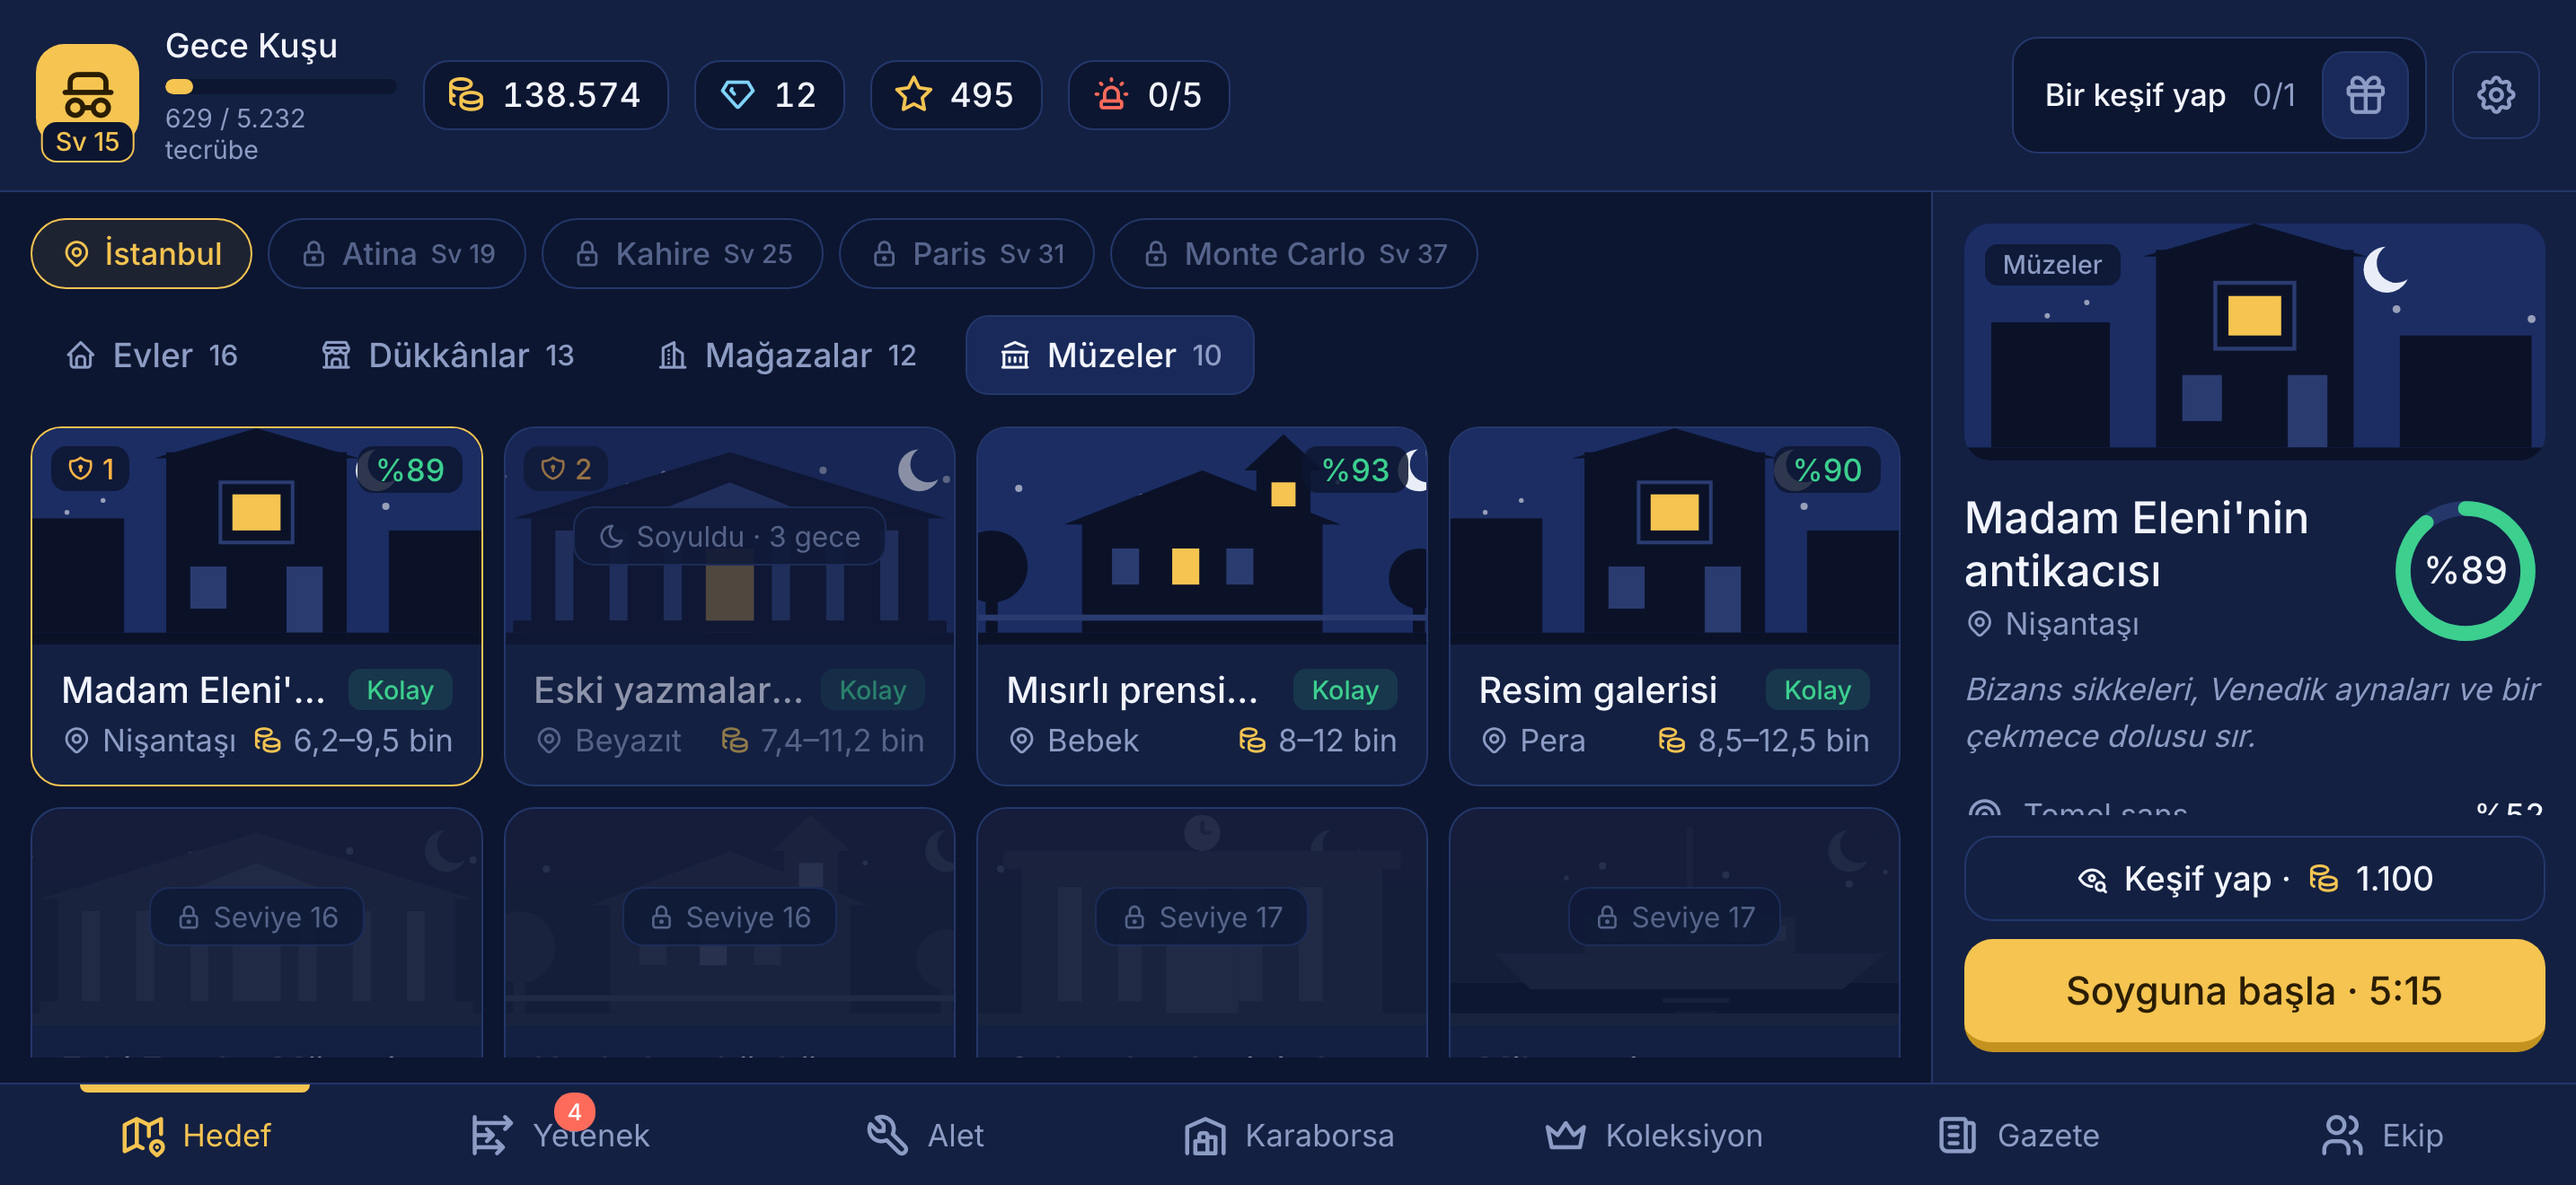
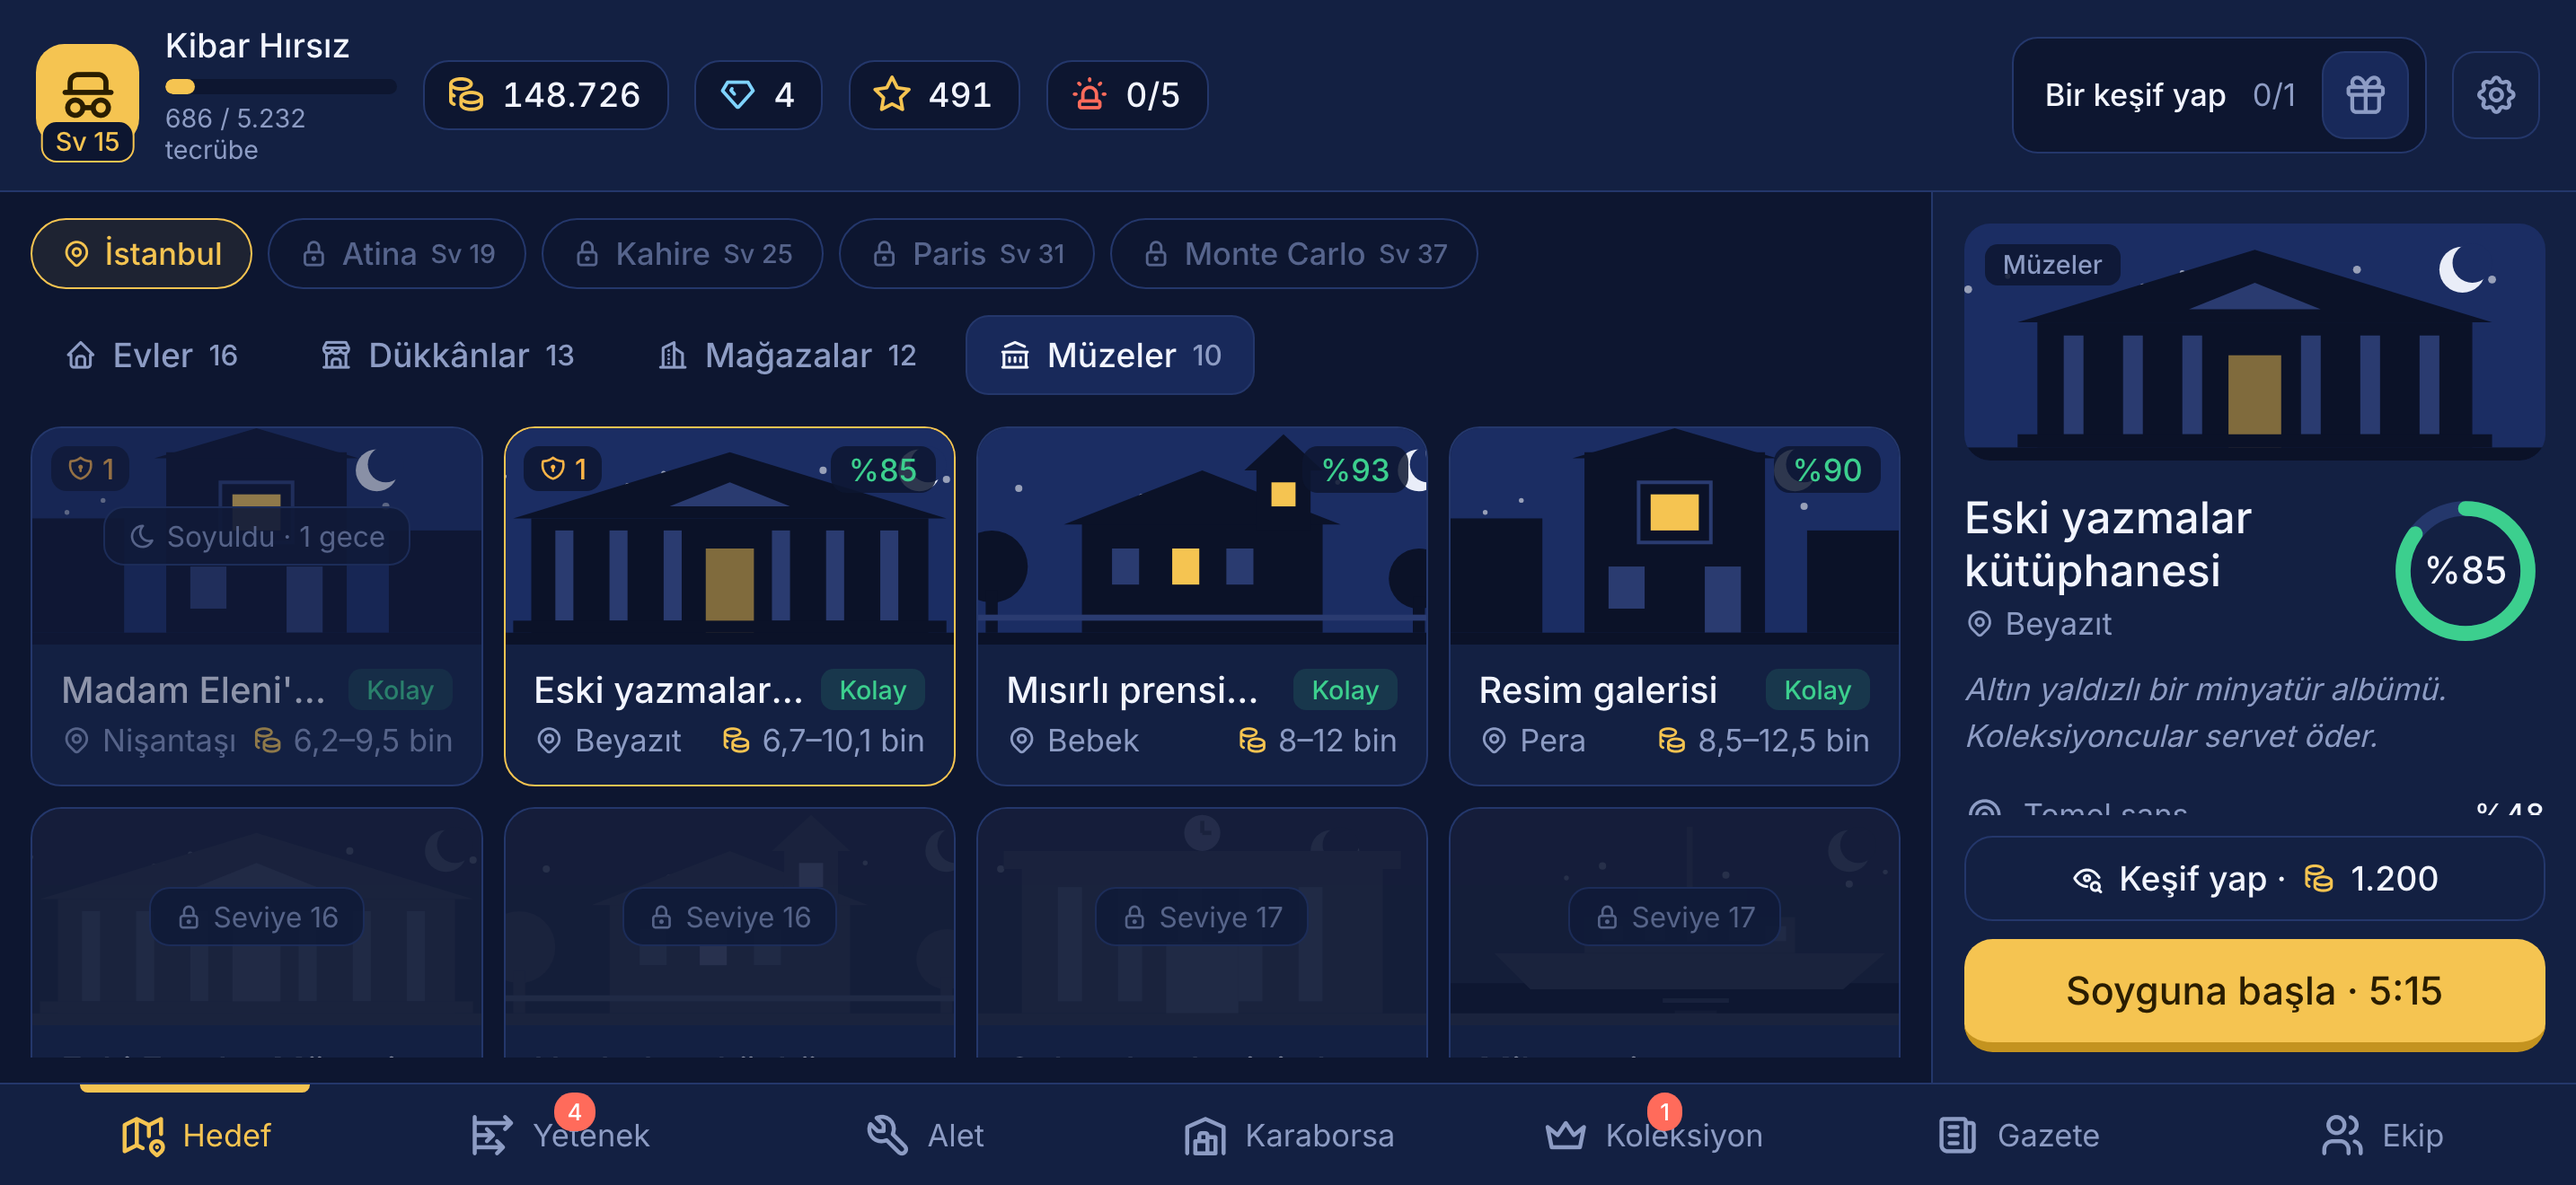
Oyunun adını Kibar Hırsız olarak değiştir

diff --git a/eras/1920/content.js b/eras/1920/content.js
@@ -4,8 +4,8 @@
 
 window.ERA = {
   id: '1920',
-  title: 'Gece Kuşu',
-  hero: 'Gece Kuşu',
+  title: 'Kibar Hırsız',
+  hero: 'Kibar Hırsız',
   heroIcon: 'spy',
   currency: 'lira',
   gemName: 'elmas',
@@ -328,7 +328,7 @@ window.ERA = {
     { id: 'hazine', tier: 'muze', lv: 18, legend: true, name: 'Saray Hazinesi', place: 'Sarayburnu', at: "Sarayburnu'nda", scene: 'saray',
       base: 35, factors: [{ tag: 'bekci', icon: 'shield', text: 'Hazine muhafızları', v: -20 }, { tag: 'alarm', icon: 'bell', text: 'Kilitli sandık alarmı', v: -15 }, { tag: 'polis', icon: 'badge', text: 'Sur devriyesi', v: -10 }, { icon: 'route', text: 'Unutulmuş sarnıç geçidi', v: 15 }],
       loot: [40000, 60000], xp: 5000, fame: 50, cd: 7, desc: 'Efsanevi Hilal Elması. Şimdiye kadar kimse denemeye cesaret edemedi.',
-      legendNews: ['Asrın soygunu!', 'Saray Hazinesi soyuldu, efsanevi Hilal Elması kayboldu. Yerinde bir kartvizit: "Gece Kuşu, saygılarımla."'] },
+      legendNews: ['Asrın soygunu!', 'Saray Hazinesi soyuldu, efsanevi Hilal Elması kayboldu. Yerinde bir kartvizit: "Kibar Hırsız, saygılarımla."'] },
 
     // ── Yurt dışı: her şehir bir kere bilet ve vize alınınca açılır ──
     { id: 'atina_antika', city: 'atina', tier: 'muze', lv: 19, name: 'Plaka antikacısı', place: 'Atina', at: "Atina'da", scene: 'antika',
@@ -382,7 +382,7 @@ window.ERA = {
     { id: 'mc_kumarhane', city: 'montecarlo', tier: 'muze', lv: 40, legend: true, name: 'Monte Carlo kumarhanesi', place: 'Monte Carlo', at: "Monte Carlo'da", scene: 'kumarhane',
       time: [120, 240, 60], base: 32, factors: [{ tag: 'bekci', icon: 'shield', text: 'Kumarhane muhafızları', v: -20 }, { tag: 'alarm', icon: 'bell', text: 'Kasa dairesi alarmı', v: -15 }, { tag: 'polis', icon: 'badge', text: 'Riviera polisi', v: -12 }, { tag: 'kasa', icon: 'lock-square', text: 'Dev çelik kasa', v: -15 }, { icon: 'users', text: 'Büyük turnuva gecesi', v: 15 }, { icon: 'route', text: 'Şarap mahzeninden geçit', v: 15 }],
       loot: [1250000, 2000000], xp: 15200, fame: 150, cd: 8, desc: "Avrupa'nın en büyük kumarhanesi. Gecenin hasılatı tek bir kasada.",
-      legendNews: ['Monte Carlo şokta!', 'Kumarhanenin ana kasası boşaltıldı. Masada tek bir kartvizit: "Gece Kuşu, İstanbul\'dan sevgilerle."'] },
+      legendNews: ['Monte Carlo şokta!', 'Kumarhanenin ana kasası boşaltıldı. Masada tek bir kartvizit: "Kibar Hırsız, İstanbul\'dan sevgilerle."'] },
   ],
 
   branches: [
@@ -538,9 +538,9 @@ window.ERA = {
   news: {
     intro: { h: 'Şehirde yeni bir hırsız mı türedi?', b: "Fatih'te bir evden çıkarken kapıyı kibarca kilitleyen meçhul şahıs, zabıtayı şaşkına çevirdi." },
     success: [
-      ['Gece Kuşu {at} yine iz bırakmadı', 'Dün gece {name} soyuldu. Kayıp eşyaların yerinde yalnızca zarif bir kartvizit bulundu.'],
+      ['Kibar Hırsız {at} yine iz bırakmadı', 'Dün gece {name} soyuldu. Kayıp eşyaların yerinde yalnızca zarif bir kartvizit bulundu.'],
       ['{at} kibar hırsız vakası', '{name} sahipleri sabah kapıyı kilitli, kasayı boş buldu. Zabıta şaşkın.'],
-      ['Gece Kuşu kimdir?', '{at} yaşanan son vaka, şehrin en kibar hırsızının yine iş başında olduğunu gösteriyor.'],
+      ['Kibar Hırsız kimdir?', '{at} yaşanan son vaka, şehrin en zarif hırsızının yine iş başında olduğunu gösteriyor.'],
       ['Hırsız teşekkür notu bıraktı', '{name} soyuldu. Masada bir not: "Misafirperverliğiniz için teşekkürler."'],
     ],
     fail: [
@@ -552,16 +552,16 @@ window.ERA = {
       ['Zabıta alarmda', '{name} önünde görülen şüpheli izini kaybettirdi. Semtte devriyeler çoğaldı.'],
     ],
     caught: [
-      ['Gece Kuşu yakalandı mı?', '{at} bir şüpheli gözaltına alındı, delil yetersizliğinden üç gün sonra serbest bırakıldı.'],
+      ['Kibar Hırsız yakalandı mı?', '{at} bir şüpheli gözaltına alındı, delil yetersizliğinden üç gün sonra serbest bırakıldı.'],
     ],
     // Efsanevi bir hedefin ilk soygunu
     legend: [
-      ['Asrın soygunu!', '{name} soyuldu, efsanevi Hilal Elması kayboldu. Yerinde bir kartvizit: "Gece Kuşu, saygılarımla."'],
+      ['Asrın soygunu!', '{name} soyuldu, efsanevi Hilal Elması kayboldu. Yerinde bir kartvizit: "Kibar Hırsız, saygılarımla."'],
     ],
     // Güvenliği artırılmış bir yerin yeniden soyulması
     repeat: [
-      ['Gece Kuşu aynı kapıdan yine girdi', '{name} sahipleri yeni kilitler taktırmıştı. İşe yaramadı. Zabıta çaresiz.'],
-      ['{at} ikinci şok', 'Güvenliği artırılan {name} yeniden soyuldu. Halk Gece Kuşu\'nu konuşuyor.'],
+      ['Kibar Hırsız aynı kapıdan yine girdi', '{name} sahipleri yeni kilitler taktırmıştı. İşe yaramadı. Zabıta çaresiz.'],
+      ['{at} ikinci şok', 'Güvenliği artırılan {name} yeniden soyuldu. Halk Kibar Hırsız\'ı konuşuyor.'],
     ],
   },
 

diff --git a/privacy.html b/privacy.html
@@ -3,7 +3,7 @@
 <head>
   <meta charset="utf-8">
   <meta name="viewport" content="width=device-width, initial-scale=1">
-  <title>Gizlilik Politikası · Gece Kuşu</title>
+  <title>Gizlilik Politikası · Kibar Hırsız</title>
   <link rel="icon" href="icon-512.png">
   <style>
     :root { --bg: #0d1630; --p1: #132042; --tx: #f2f5ff; --mu: #8d9cc4; --au: #f5c451; --ln: #24376b; color-scheme: dark; }
@@ -18,9 +18,9 @@
 </head>
 <body>
 <main>
-  <div class="head"><img src="icon-512.png" alt=""><div><h1>Gizlilik Politikası</h1><div class="mu">Gece Kuşu · Son güncelleme: 20 Kasım 2026</div></div></div>
+  <div class="head"><img src="icon-512.png" alt=""><div><h1>Gizlilik Politikası</h1><div class="mu">Kibar Hırsız · Son güncelleme: 20 Kasım 2026</div></div></div>
 
-  <p>Gece Kuşu, kişisel verilerinizi toplamayan, tamamen cihazınızda çalışan tek oyunculu bir oyundur.</p>
+  <p>Kibar Hırsız, kişisel verilerinizi toplamayan, tamamen cihazınızda çalışan tek oyunculu bir oyundur.</p>
 
   <h2>Topladığımız veriler</h2>
   <p>Hiçbir kişisel veri toplamıyoruz. Oyunda hesap açma, giriş yapma, reklam, analiz aracı ya da takip yoktur. Oyun internete bağlanmadan çalışır ve hiçbir sunucuya veri göndermez.</p>
@@ -43,7 +43,7 @@
   <hr>
 
   <h1 style="font-size:22px">Privacy Policy (English)</h1>
-  <p>Gece Kuşu is a single-player game that runs entirely on your device and does not collect personal data. There are no accounts, ads, analytics or tracking, and the game does not send any data to a server. Your game progress is stored only on your device and is deleted when you delete the app. No data is shared with or sold to third parties. For questions, please use the <a href="support.html">support page</a>.</p>
+  <p>Kibar Hırsız is a single-player game that runs entirely on your device and does not collect personal data. There are no accounts, ads, analytics or tracking, and the game does not send any data to a server. Your game progress is stored only on your device and is deleted when you delete the app. No data is shared with or sold to third parties. For questions, please use the <a href="support.html">support page</a>.</p>
 </main>
 </body>
 </html>

diff --git a/index.html b/index.html
@@ -3,18 +3,18 @@
 <head>
   <meta charset="utf-8">
   <meta name="viewport" content="width=device-width, initial-scale=1, maximum-scale=1, user-scalable=no, viewport-fit=cover">
-  <title>Gece Kuşu</title>
+  <title>Kibar Hırsız</title>
   <meta name="apple-mobile-web-app-capable" content="yes">
   <meta name="mobile-web-app-capable" content="yes">
   <meta name="apple-mobile-web-app-status-bar-style" content="black-translucent">
-  <meta name="apple-mobile-web-app-title" content="Gece Kuşu">
+  <meta name="apple-mobile-web-app-title" content="Kibar Hırsız">
   <meta name="theme-color" content="#0d1630">
   <link rel="manifest" href="manifest.json">
   <link rel="apple-touch-icon" href="apple-touch-icon.png">
   <link rel="icon" href="icon-512.png">
   <link rel="stylesheet" href="vendor/fonts/fonts.css">
   <link rel="stylesheet" href="vendor/tabler/tabler-icons.min.css">
-  <link rel="stylesheet" href="css/style.css?v=1795162542">
+  <link rel="stylesheet" href="css/style.css?v=1795168057">
 </head>
 <body>
   <div class="game"><div id="ui"></div><div id="layer"></div></div>
@@ -40,8 +40,8 @@
       addEventListener('resize', fit); addEventListener('orientationchange', fit); fit();
     })();
   </script>
-  <script src="eras/1920/content.js?v=1795162542"></script>
-  <script src="js/engine.js?v=1795162542"></script>
-  <script src="js/ui.js?v=1795162542"></script>
+  <script src="eras/1920/content.js?v=1795168057"></script>
+  <script src="js/engine.js?v=1795168057"></script>
+  <script src="js/ui.js?v=1795168057"></script>
 </body>
 </html>

diff --git a/support.html b/support.html
@@ -3,7 +3,7 @@
 <head>
   <meta charset="utf-8">
   <meta name="viewport" content="width=device-width, initial-scale=1">
-  <title>Destek · Gece Kuşu</title>
+  <title>Destek · Kibar Hırsız</title>
   <link rel="icon" href="icon-512.png">
   <style>
     :root { --bg: #0d1630; --p1: #132042; --tx: #f2f5ff; --mu: #8d9cc4; --au: #f5c451; --ln: #24376b; color-scheme: dark; }
@@ -20,7 +20,7 @@
 </head>
 <body>
 <main>
-  <div class="head"><img src="icon-512.png" alt=""><div><h1>Gece Kuşu Destek</h1><div class="mu">1920'ler İstanbul'unda centilmen bir hırsızın hikâyesi</div></div></div>
+  <div class="head"><img src="icon-512.png" alt=""><div><h1>Kibar Hırsız Destek</h1><div class="mu">1920'ler İstanbul'unda centilmen bir hırsızın hikâyesi</div></div></div>
 
   <div class="q"><h2>İlerlemem nerede saklanıyor?</h2><p>İlerlemen yalnızca cihazında saklanır. Uygulamayı silersen ilerlemen de silinir.</p></div>
   <div class="q"><h2>Oyunu baştan başlatmak istiyorum.</h2><p>Sağ üstteki ayarlar düğmesine dokun ve "Yeni oyun başlat"ı seç.</p></div>

diff --git a/ios/APP_STORE.md b/ios/APP_STORE.md
@@ -1,4 +1,4 @@
-# Gece Kuşu: App Store'a çıkış rehberi
+# Kibar Hırsız: App Store'a çıkış rehberi
 
 Bu klasörde App Store için gerekenlerin hepsi hazır: Xcode projesi, uygulama simgesi, açılış ekranı, gizlilik bildirimi, ekran görüntüleri ve mağaza metinleri. Aşağıdaki adımları senin yapman gerekiyor, çünkü bunlar senin Apple hesabınla yapılıyor.
 
@@ -12,7 +12,7 @@ Bu klasörde App Store için gerekenlerin hepsi hazır: Xcode projesi, uygulama 
 1. `ios/GeceKusu.xcodeproj` dosyasına çift tıkla.
 2. Soldan **GeceKusu** projesini, ardından **Signing & Capabilities** sekmesini seç.
 3. **Team** kısmından kendi geliştirici hesabını seç.
-4. **Bundle Identifier** şu an `com.dilatilla.gecekusu`. İstersen değiştirebilirsin, ama App Store'a yükledikten sonra değiştirilemez.
+4. **Bundle Identifier** şu an `com.dilatilla.kibarhirsiz`. İstersen değiştirebilirsin, ama App Store'a yükledikten sonra değiştirilemez.
 5. Üstten bir iPhone simülatörü seçip ▶ düğmesine bas ve oyunun açıldığını gör.
 
 Oyunun web dosyaları her derlemede `ios/sync-web.sh` ile kendiliğinden uygulamanın içine kopyalanır. Oyunda bir değişiklik yaptığında ayrıca bir şey yapman gerekmez.
@@ -24,10 +24,10 @@ https://appstoreconnect.apple.com → **Uygulamalar** → **+** → **Yeni Uygul
 | Alan | Değer |
 |---|---|
 | Platform | iOS |
-| Ad | Gece Kuşu (alınmışsa: "Gece Kuşu: Centilmen Hırsız") |
+| Ad | Kibar Hırsız (alınmışsa: "Kibar Hırsız: İstanbul 1924") |
 | Birincil dil | Türkçe |
-| Paket kimliği | com.dilatilla.gecekusu |
-| SKU | gecekusu-001 |
+| Paket kimliği | com.dilatilla.kibarhirsiz |
+| SKU | kibarhirsiz-001 |
 
 ## 4. Mağaza metinleri
 
@@ -38,7 +38,7 @@ https://appstoreconnect.apple.com → **Uygulamalar** → **+** → **Yeni Uygul
 > Küçük evlerden saray hazinesine, İstanbul'dan Monte Carlo kumarhanesine uzanan centilmen bir hırsızın hikâyesi. Planla, ekibini kur, iz bırakma.
 
 **Açıklama**
-> 1924 İstanbul'u. Geceler uzun, konaklar sessiz, müzeler korunaksız sanılır. Sen Gece Kuşu'sun: kimseye zarar vermeyen, ama hiçbir kilidin de önünde duramadığı centilmen bir hırsız.
+> 1924 İstanbul'u. Geceler uzun, konaklar sessiz, müzeler korunaksız sanılır. Sen Kibar Hırsız'sın: kimseye zarar vermeyen, ama hiçbir kilidin de önünde duramadığı centilmen bir hırsız.
 >
 > KÜÇÜKTEN BAŞLA, EFSANE OL
 > Fatih'teki bir kunduracının evinden başla; dükkânlara, mağazalara, müzelere ve sonunda Saray Hazinesi'ne uzan. Her hedefin bir başarı şansı var ve bu şansı sen değiştirirsin.

diff --git a/README.md b/README.md
@@ -1,4 +1,4 @@
-# Gece Kuşu
+# Kibar Hırsız
 
 1920'ler İstanbul'unda geçen, menü tabanlı bir hırsızlık oyunu. Yatay ekran için tasarlandı.
 
